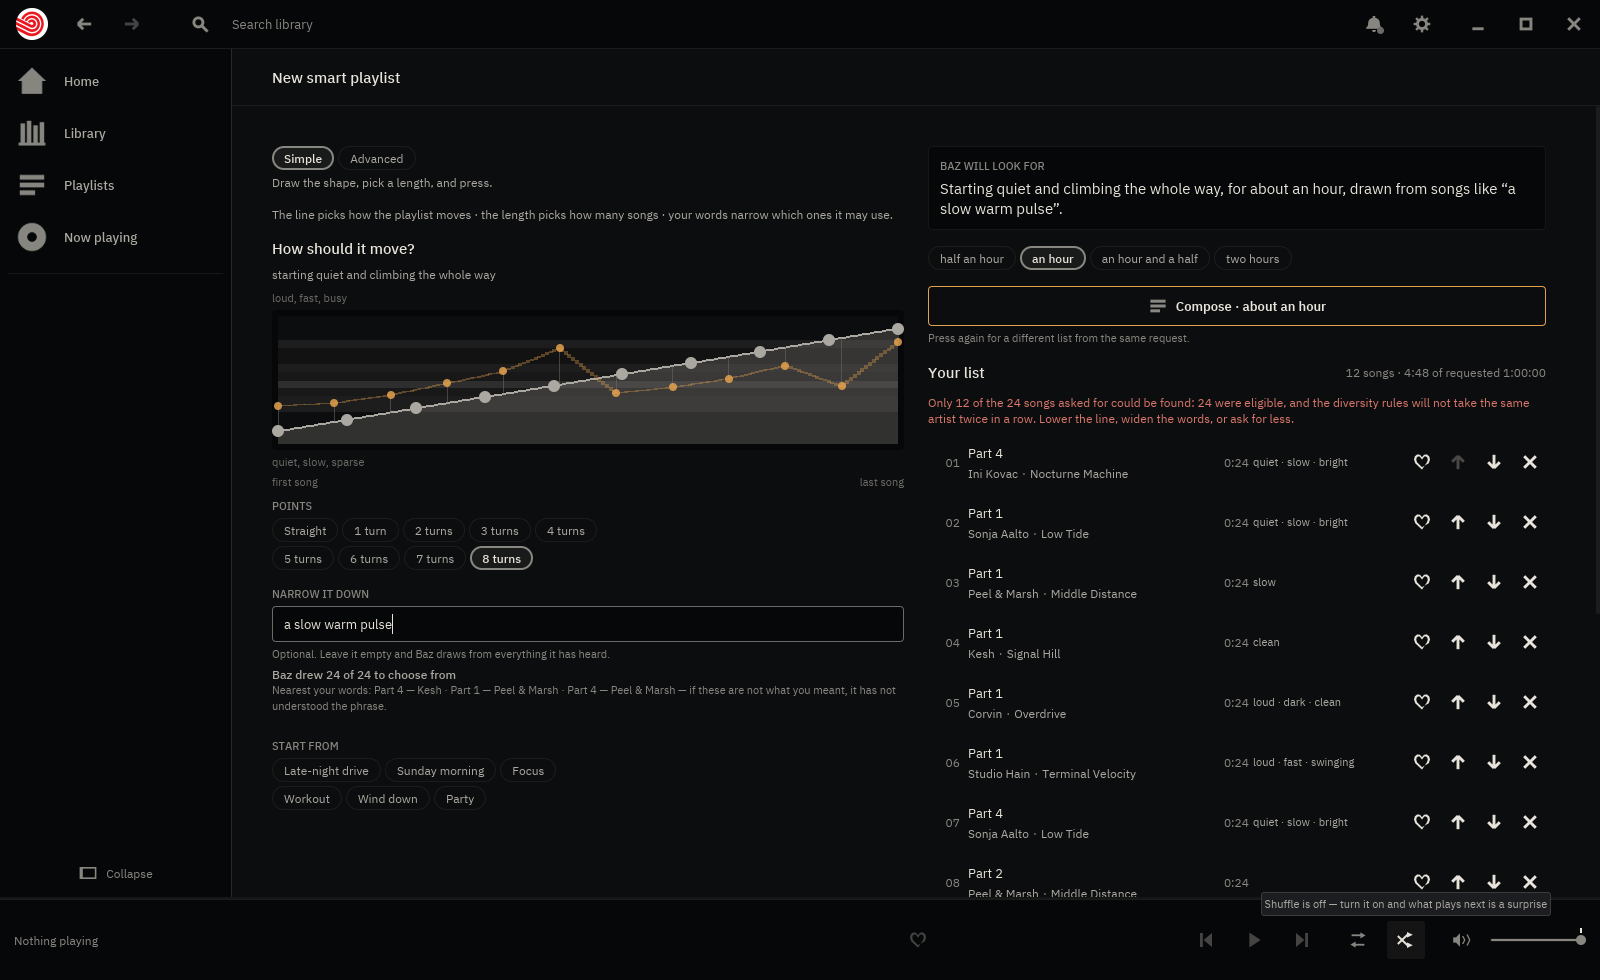
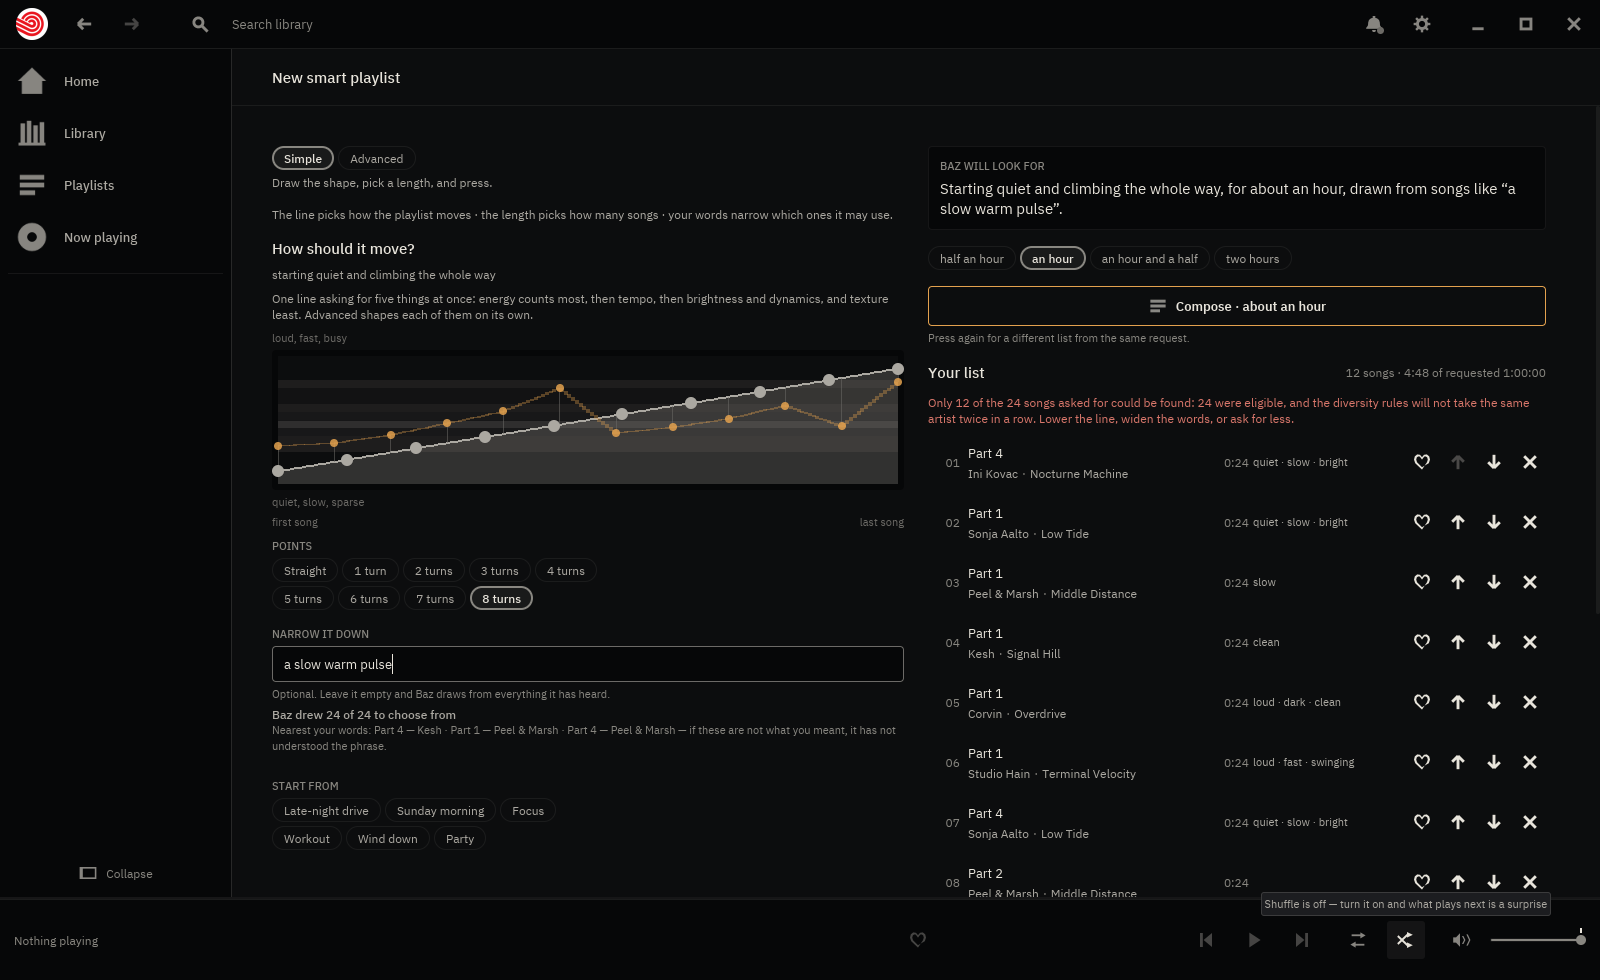
A share has to be a share of something you can name
The owner: "the concept of the 'blend' of the curves isn't that clear." It was
never explained. The word stood beside every percentage as though the reader
already had it, and in simple mode nothing said the single line was five lines
at all — which the previous arrangement hid behind a tab and this one puts at
the top of the page.

"40% OF THE BLEND" reads "40% OF THE DECISION", and the control now says what
it is once, at its head: one line asking for five things at once, energy most
and texture least, in simple; and in advanced, that a song cannot be in five
places at once, so where the lines disagree the shares settle it — which is
why the dots track a 40% line closely and a 10% line loosely.

That last sentence is also the answer to a bug report that was not one. On the
opened lines: "the stuff is not conforming to each." The per-lane dots are each
track's real reading on that dimension — checked in baz_vibe rather than
assumed — and they do not sit on their line because the walk satisfies the
weighted request, which it cannot do for each line separately when the lines
disagree. Nothing was broken. What was missing was the sentence saying so, and
without it a working control looked like a failing one.

Claude-Session: https://claude.ai/code/session_01Uy6gBVY9behWR1G39qyih9

diff --git a/crates/baz/src/views/compose/shape.rs b/crates/baz/src/views/compose/shape.rs
@@ -35,6 +35,27 @@ use crate::{theme, views};
 pub(crate) fn view(vibe: &crate::vibe::State, layout: Layout) -> Element<'_, Message> {
     let mut block = column![heading("How should it move?")].spacing(theme::GAP_SM);
     block = block.push(views::hint(crate::vibe::shape_words(&vibe.contour)));
+    // **What the line is, said once, at the top of it.**
+    //
+    // The owner: *"the concept of the 'blend' of the curves isn't that
+    // clear."* It was not said anywhere — the word appeared beside each
+    // percentage as though it were a thing the reader already had, and the
+    // single line said nothing about being five.
+    //
+    // The expanded sentence is the one that matters, and it is the same
+    // answer as *"the stuff is not conforming to each"*: the walk satisfies
+    // the shares, not each line, because it cannot satisfy each line. Saying
+    // so turns a control that looks broken into one that is behaving
+    // visibly.
+    block = block.push(views::hint(if vibe.expanded {
+        "One line each — and a song cannot be in five places at once, so where the \
+         lines disagree the shares below settle it. That is why the dots track a \
+         40% line closely and a 10% line loosely."
+    } else {
+        "One line asking for five things at once: energy counts most, then tempo, \
+         then brightness and dynamics, and texture least. Advanced shapes each of \
+         them on its own."
+    }));
     if layout.draw_curve {
         if vibe.expanded {
             for (index, lane) in vibe.contour.lanes.iter().enumerate() {
@@ -138,13 +159,17 @@ fn line<'a>(
         // spectral centroid, rolloff and zero crossings, and is entitled to
         // know it — none of these is a mood and none of them pretends to be.
         // **What it measures, and how much it counts.** The five lines do not
-        // influence a result equally — the blend is weighted with energy
-        // dominant — so a line that says only what it measures leaves the
-        // listener to discover by experiment that dragging texture moves the
-        // list a quarter as far as dragging energy does.
+        // influence a result equally — energy is dominant — so a line that
+        // says only what it measures leaves the listener to discover by
+        // experiment that dragging texture moves the list a quarter as far as
+        // dragging energy does.
+        //
+        // *Of the decision*, not *of the blend*: a share has to be a share of
+        // something the reader can name, and nothing on this page ever said
+        // what a blend was.
         block = block
             .push(views::caption_word(&format!(
-                "{} · {}% OF THE BLEND",
+                "{} · {}% OF THE DECISION",
                 dimension.label().to_uppercase(),
                 dimension.share()
             )))
@@ -265,10 +290,8 @@ fn expander(vibe: &crate::vibe::State) -> Element<'_, Message> {
     column![
         chip(label, open, Message::ContourExpander),
         views::hint(if open {
-            "One line each. Drag energy and the list gets louder or quieter where you \
-             drew it; drag brightness and it gets darker or crisper there instead. They \
-             do not count equally — the share beside each name is how much it moves the \
-             result."
+            "Drag energy and the list gets louder or quieter where you drew it; drag \
+             brightness and it gets darker or crisper there instead."
         } else {
             "One line moves all five things Baz listens for together. Open this to make \
              the list climb in energy while it steadies in tempo, or any other \

diff --git a/docs/design/25-the-line-leads.md b/docs/design/25-the-line-leads.md
@@ -64,7 +64,7 @@ by ear beats one that cannot.
 
 ## 3a. What the owner asked for once he could see it
 
-Three corrections, the same day, and each of them follows from the line being
+Four corrections, the same day, and each of them follows from the line being
 the page's subject rather than a setting on it:
 
 1. **Ten points, not two.** *"Can we just make the line default to having
@@ -99,6 +99,34 @@ the page's subject rather than a setting on it:
    Both columns now grow from their own floors rather than one being pinned,
    because the drawn line is the one thing on this page that is better for
    room.
+
+4. **The blend got a name, and the shares got a referent.** *"The concept of
+   the 'blend' of the curves isn't that clear."* It was not explained
+   anywhere: the word stood beside each percentage as though the reader
+   already had it, and in simple mode nothing said the single line was five
+   lines at all — which the previous arrangement had hidden behind a tab and
+   this one puts at the top of the page.
+
+   `40% OF THE BLEND` reads `40% OF THE DECISION` now, because a share has to
+   be a share of something a reader can name. And the control says what it is,
+   once, at the head of it:
+
+   > *One line asking for five things at once: energy counts most, then tempo,
+   > then brightness and dynamics, and texture least. Advanced shapes each of
+   > them on its own.*
+
+   > *One line each — and a song cannot be in five places at once, so where
+   > the lines disagree the shares below settle it. That is why the dots track
+   > a 40% line closely and a 10% line loosely.*
+
+   **The second sentence is also the answer to a bug report that was not
+   one.** The owner, on the opened lines: *"the stuff is not conforming to
+   each."* The per-lane dots are each track's real reading on that dimension —
+   checked in `baz_vibe`, not assumed — and they do not sit on their line
+   because the walk satisfies the *weighted* request rather than each line
+   separately, which it cannot do when the lines disagree. Nothing was broken.
+   What was missing was the sentence saying so, and without it a working
+   control looked like a failing one.
 
 And one thing that fell out rather than being asked for: **the match count
 moved to both depths.** It was advanced-only when the words were the request

diff --git a/CHANGELOG.md b/CHANGELOG.md
@@ -36,6 +36,13 @@ Every release is built from a tag by CI, gated on the full test suite — see
   real measurements and you can check it by ear; the description is a model's
   guess that, for two of six measured test phrases, was no better than
   picking at random. The page led with the guess.
+- **The five things baz listens for say how much each one counts, and what
+  they count towards.** Open the lines and each says *40% of the decision*
+  rather than *40% of the blend* — a share of something you can name — and the
+  control says once, at the top, that a song cannot be in five places at once,
+  so where the lines disagree the shares settle it. That is also why a 40%
+  line's songs sit closer to it than a 10% line's do, which looked like a
+  fault and is the mechanism working.
 - **The line starts with ten points, and the playlist stays on the right.**
   Two points was a line you could only tilt. Ten is one you can draw with, and
   the shape presets load at the same resolution without changing shape. On a
